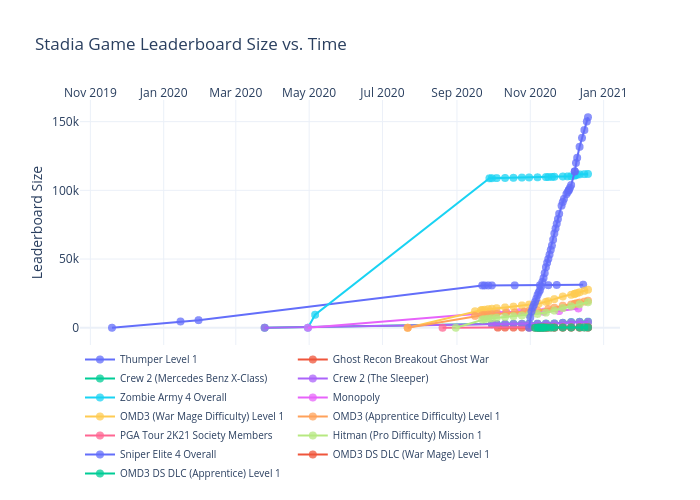
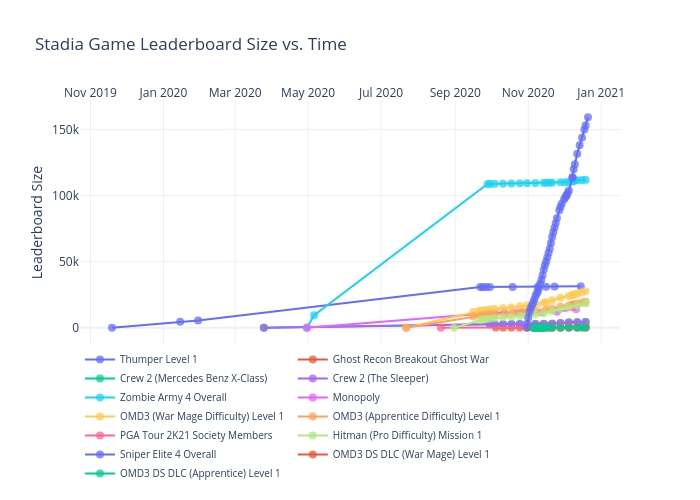
Add files via upload

diff --git a/leaderboards/figure.js b/leaderboards/figure.js
@@ -91,6 +91,7 @@ var figure = {
                 "2020-12-16",
                 "2020-12-18",
                 "2020-12-19",
+                "2020-12-21",
                 "2020-12-26",
                 "2020-12-31",
                 "2020-01-02"
@@ -274,6 +275,7 @@ var figure = {
                 "2020-12-16",
                 "2020-12-18",
                 "2020-12-19",
+                "2020-12-21",
                 "2020-12-26",
                 "2020-12-31",
                 "2020-01-02"
@@ -460,6 +462,7 @@ var figure = {
                 "2020-12-16",
                 "2020-12-18",
                 "2020-12-19",
+                "2020-12-21",
                 "2020-12-26",
                 "2020-12-31",
                 "2020-01-02"
@@ -646,6 +649,7 @@ var figure = {
                 "2020-12-16",
                 "2020-12-18",
                 "2020-12-19",
+                "2020-12-21",
                 "2020-12-26",
                 "2020-12-31",
                 "2020-01-02"
@@ -832,6 +836,7 @@ var figure = {
                 "2020-12-16",
                 "2020-12-18",
                 "2020-12-19",
+                "2020-12-21",
                 "2020-12-26",
                 "2020-12-31",
                 "2020-01-02"
@@ -1018,6 +1023,7 @@ var figure = {
                 "2020-12-16",
                 "2020-12-18",
                 "2020-12-19",
+                "2020-12-21",
                 "2020-12-26",
                 "2020-12-31",
                 "2020-01-02"
@@ -1198,6 +1204,7 @@ var figure = {
                 "2020-12-16",
                 "2020-12-18",
                 "2020-12-19",
+                "2020-12-21",
                 "2020-12-26",
                 "2020-12-31",
                 "2020-01-02"
@@ -1384,6 +1391,7 @@ var figure = {
                 "2020-12-16",
                 "2020-12-18",
                 "2020-12-19",
+                "2020-12-21",
                 "2020-12-26",
                 "2020-12-31",
                 "2020-01-02"
@@ -1570,6 +1578,7 @@ var figure = {
                 "2020-12-16",
                 "2020-12-18",
                 "2020-12-19",
+                "2020-12-21",
                 "2020-12-26",
                 "2020-12-31",
                 "2020-01-02"
@@ -1756,6 +1765,7 @@ var figure = {
                 "2020-12-16",
                 "2020-12-18",
                 "2020-12-19",
+                "2020-12-21",
                 "2020-12-26",
                 "2020-12-31",
                 "2020-01-02"
@@ -1942,6 +1952,7 @@ var figure = {
                 "2020-12-16",
                 "2020-12-18",
                 "2020-12-19",
+                "2020-12-21",
                 "2020-12-26",
                 "2020-12-31",
                 "2020-01-02"
@@ -2026,7 +2037,8 @@ var figure = {
                 null,
                 "143879",
                 "150102",
-                "153200"
+                "153200",
+                "159324"
             ],
             "marker": {
                 "size": 8,
@@ -2128,6 +2140,7 @@ var figure = {
                 "2020-12-16",
                 "2020-12-18",
                 "2020-12-19",
+                "2020-12-21",
                 "2020-12-26",
                 "2020-12-31",
                 "2020-01-02"
@@ -2314,6 +2327,7 @@ var figure = {
                 "2020-12-16",
                 "2020-12-18",
                 "2020-12-19",
+                "2020-12-21",
                 "2020-12-26",
                 "2020-12-31",
                 "2020-01-02"
@@ -2418,8 +2432,8 @@ var figure = {
             "side": "top",
             "type": "date",
             "range": [
-                "2019-10-25 04:24:10.877",
-                "2021-01-12 19:35:49.123"
+                "2019-10-25 01:23:41.841",
+                "2021-01-14 22:36:18.159"
             ],
             "title": {
                 "text": ""
@@ -2429,8 +2443,8 @@ var figure = {
         "yaxis": {
             "type": "linear",
             "range": [
-                -11643.651085756344,
-                164843.65108575634
+                -10999.193884979373,
+                170323.19388497938
             ],
             "title": {
                 "text": "Leaderboard Size"
